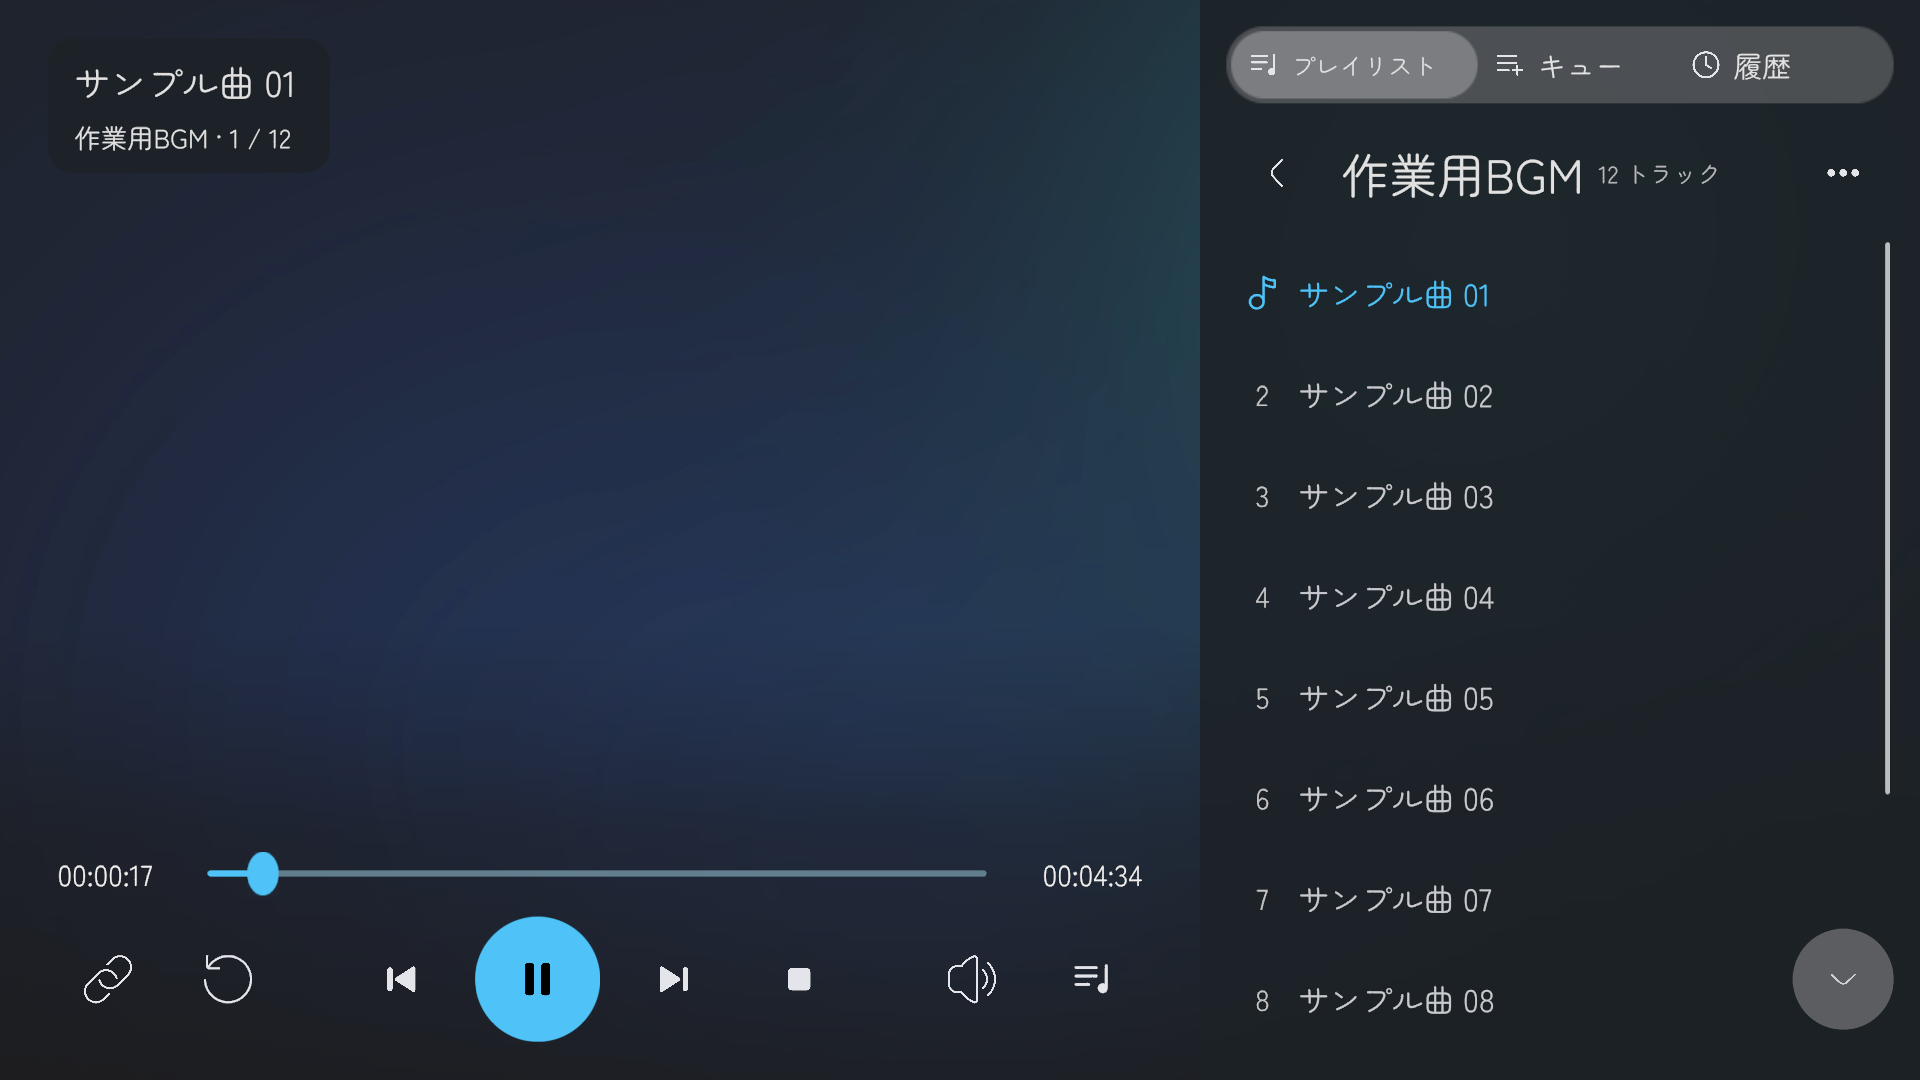
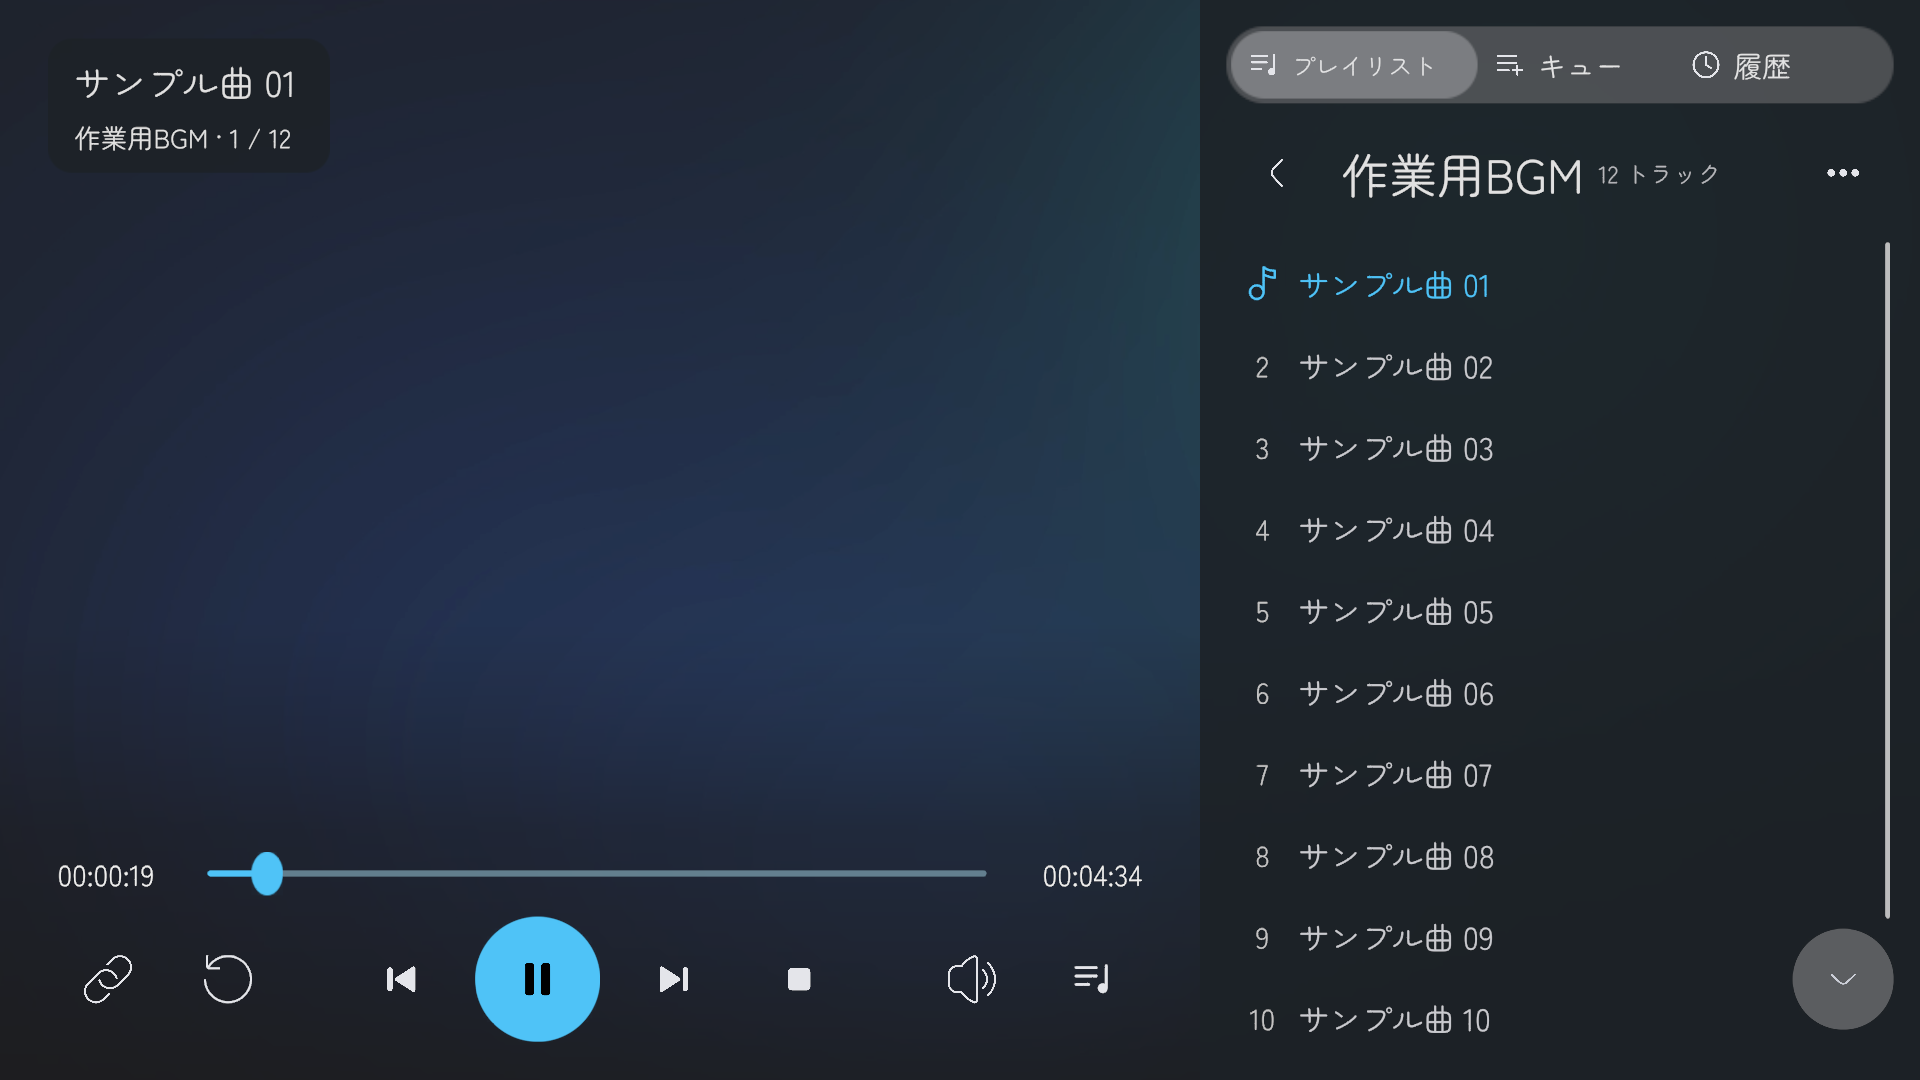
docs(poster): show the list's 68-high rows in the quick start poster's step 4 (#368)
Step 4's picture was taken before the list's rows went from 84 to 68
high (#353) and a pressed track began to play (#355), so the poster
showed three tall rows where the screen now shows more, closer
together.

- Media~/poster/source/step4.png: taken again on the screen as it is,
  in the same throwaway scene as before (the sample playlist 作業用BGM,
  sample tracks 01 to 12, its first track playing).
- poster.html: step 4's crop is a little wider (1200 of the picture's
  pixels, from 720), so that four whole rows show, and the frame and
  the tag are moved to the first row's new place.
- kawaplayer-quickstart-poster.png: rendered again with render.sh.
  Only step 4's shot differs from the poster before.

diff --git a/Media~/poster/source/poster.html b/Media~/poster/source/poster.html
@@ -292,9 +292,9 @@
   tag("s3", c3, "読み込み完了！", 1060, 370);
 
   // 4: the playlist's tracks in the list on the right, the first playing.
-  const c4 = crop("s4", "step4.png", 1920, 1080, 770, 30, 1150);
-  mark("s4", c4, [1228, 252, 1880, 340]);
-  tag("s4", c4, "再生中", 1010, 272);
+  const c4 = crop("s4", "step4.png", 1920, 1080, 720, 30, 1200);
+  mark("s4", c4, [1228, 248, 1880, 325]);
+  tag("s4", c4, "再生中", 1000, 262);
 </script>
 </body>
 </html>
